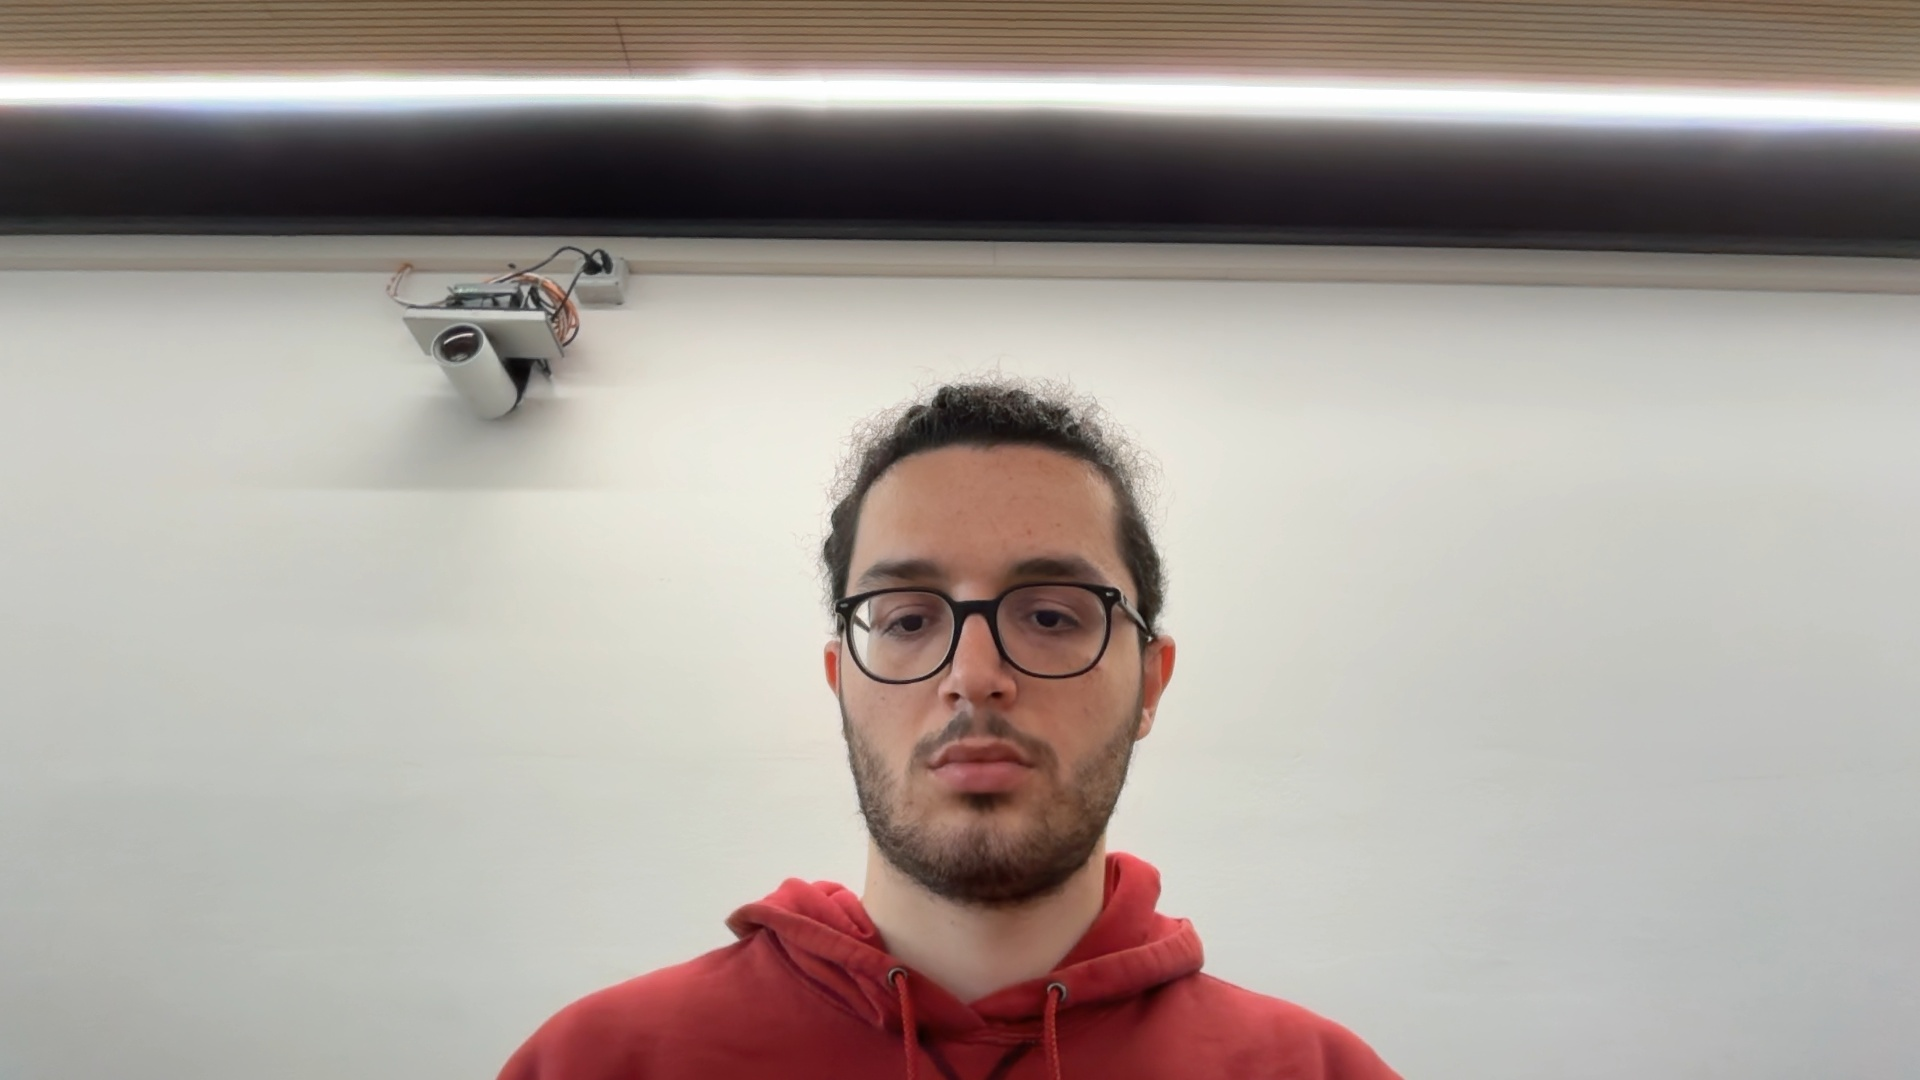
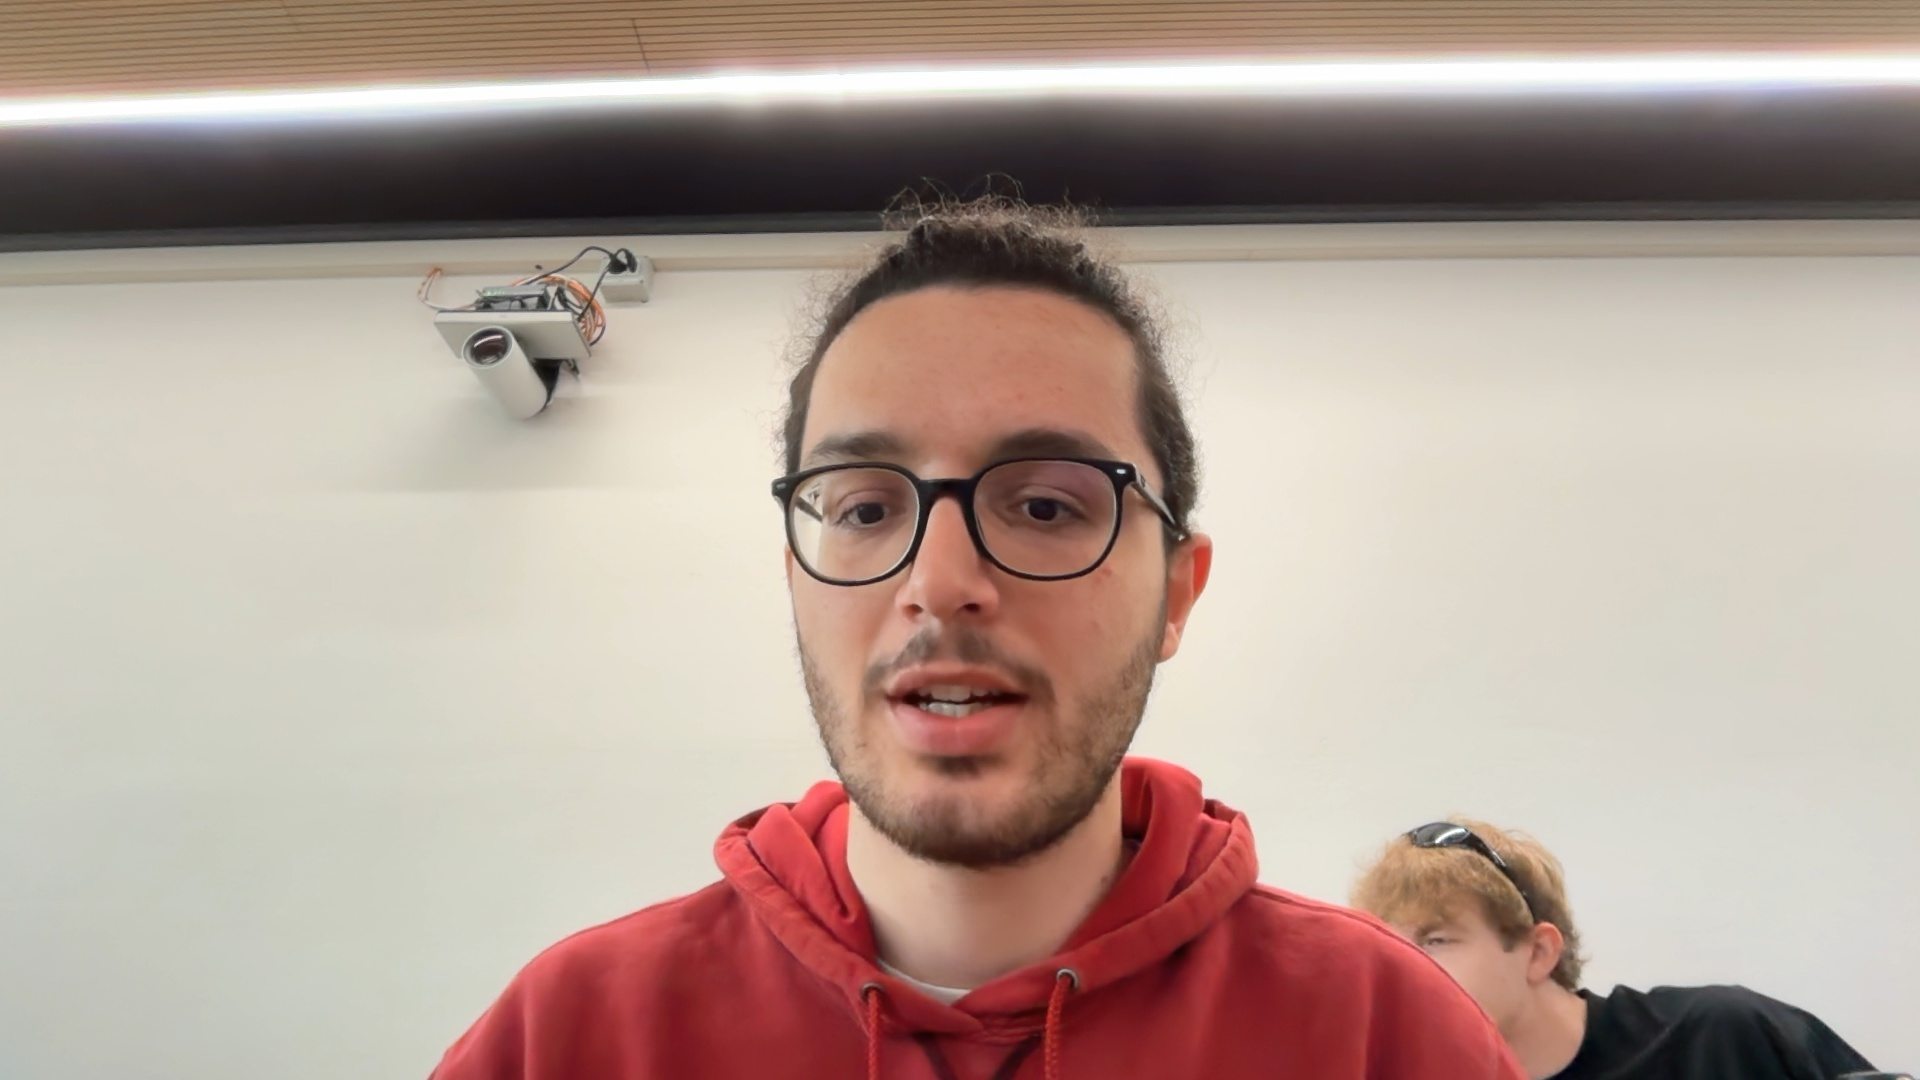
aaa

diff --git a/face_aging.py b/face_aging.py
@@ -3,9 +3,13 @@
 import os
 import io
 from pathlib import Path
+from dotenv import load_dotenv
 from google import genai
 from google.genai import types
 from PIL import Image
+
+# Load environment variables
+load_dotenv()
 
 
 def generate_aged_image(client, source_image, current_age, target_age):
@@ -85,9 +89,13 @@ def generate_age_progression(
         List of paths to generated images (including original)
     """
     os.makedirs(output_dir, exist_ok=True)
-    
+
     # Initialize the Gemini client
-    client = genai.Client()
+    api_key = os.environ.get("GEMINI_API_KEY")
+    if not api_key:
+        raise ValueError("GEMINI_API_KEY not found in environment variables. Please check your .env file.")
+
+    client = genai.Client(api_key=api_key)
     
     # Calculate target ages
     target_ages = [
